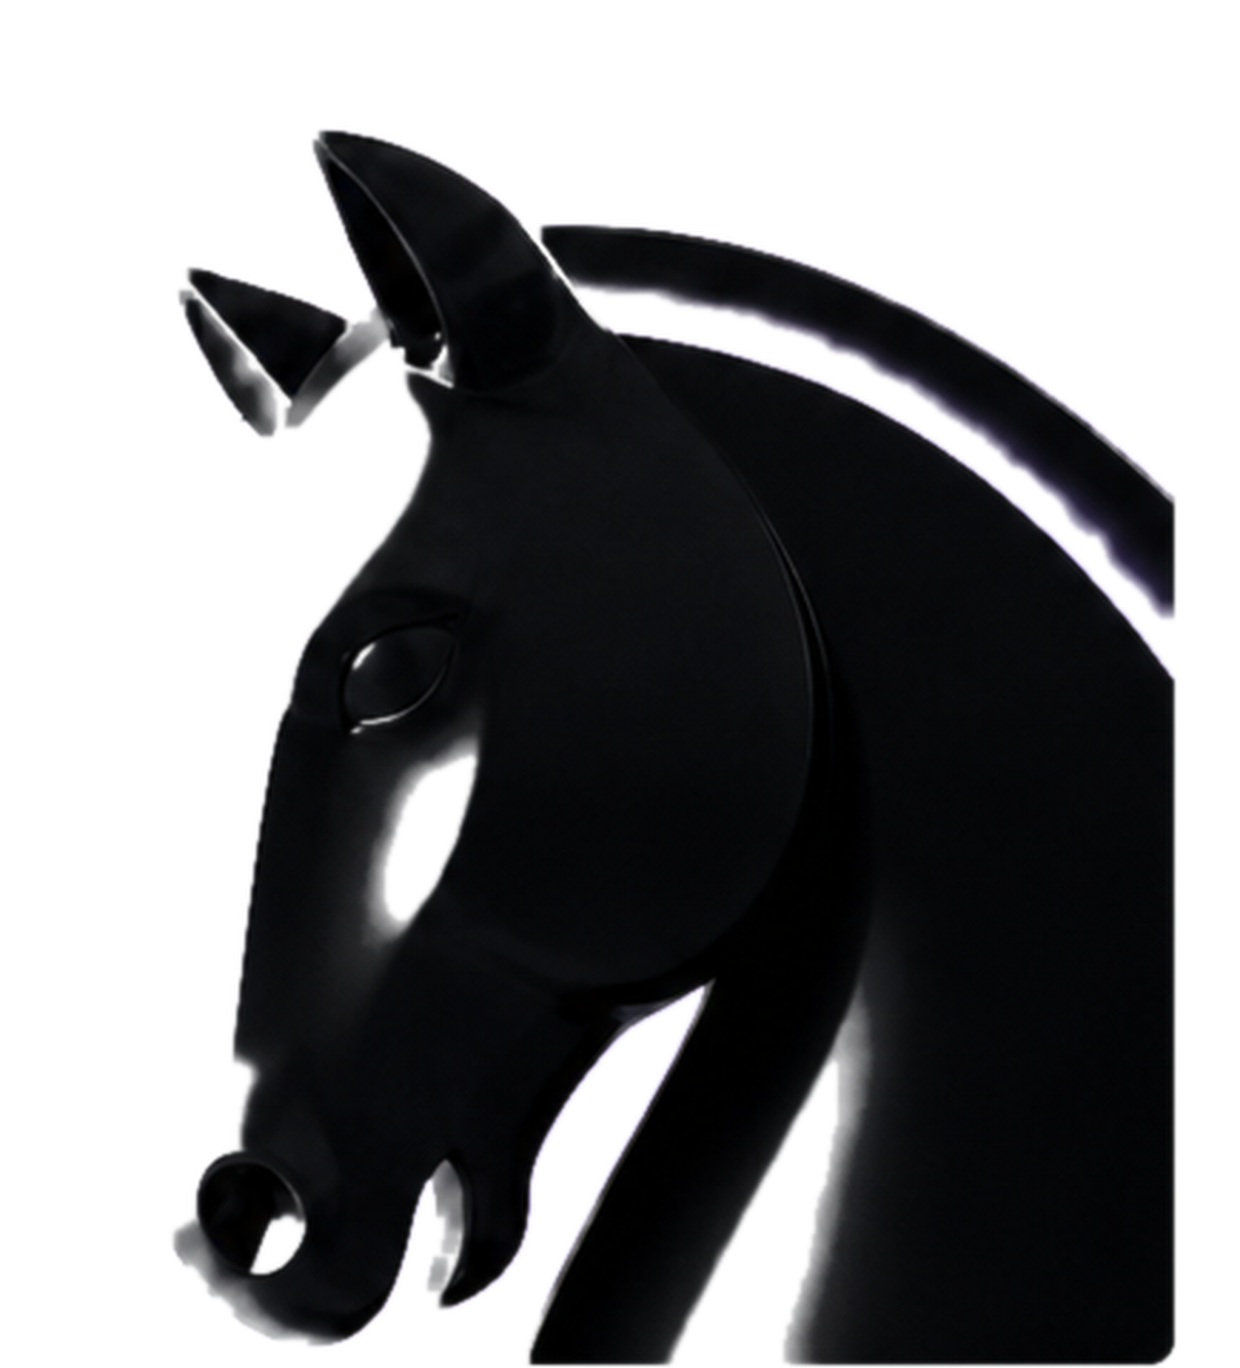
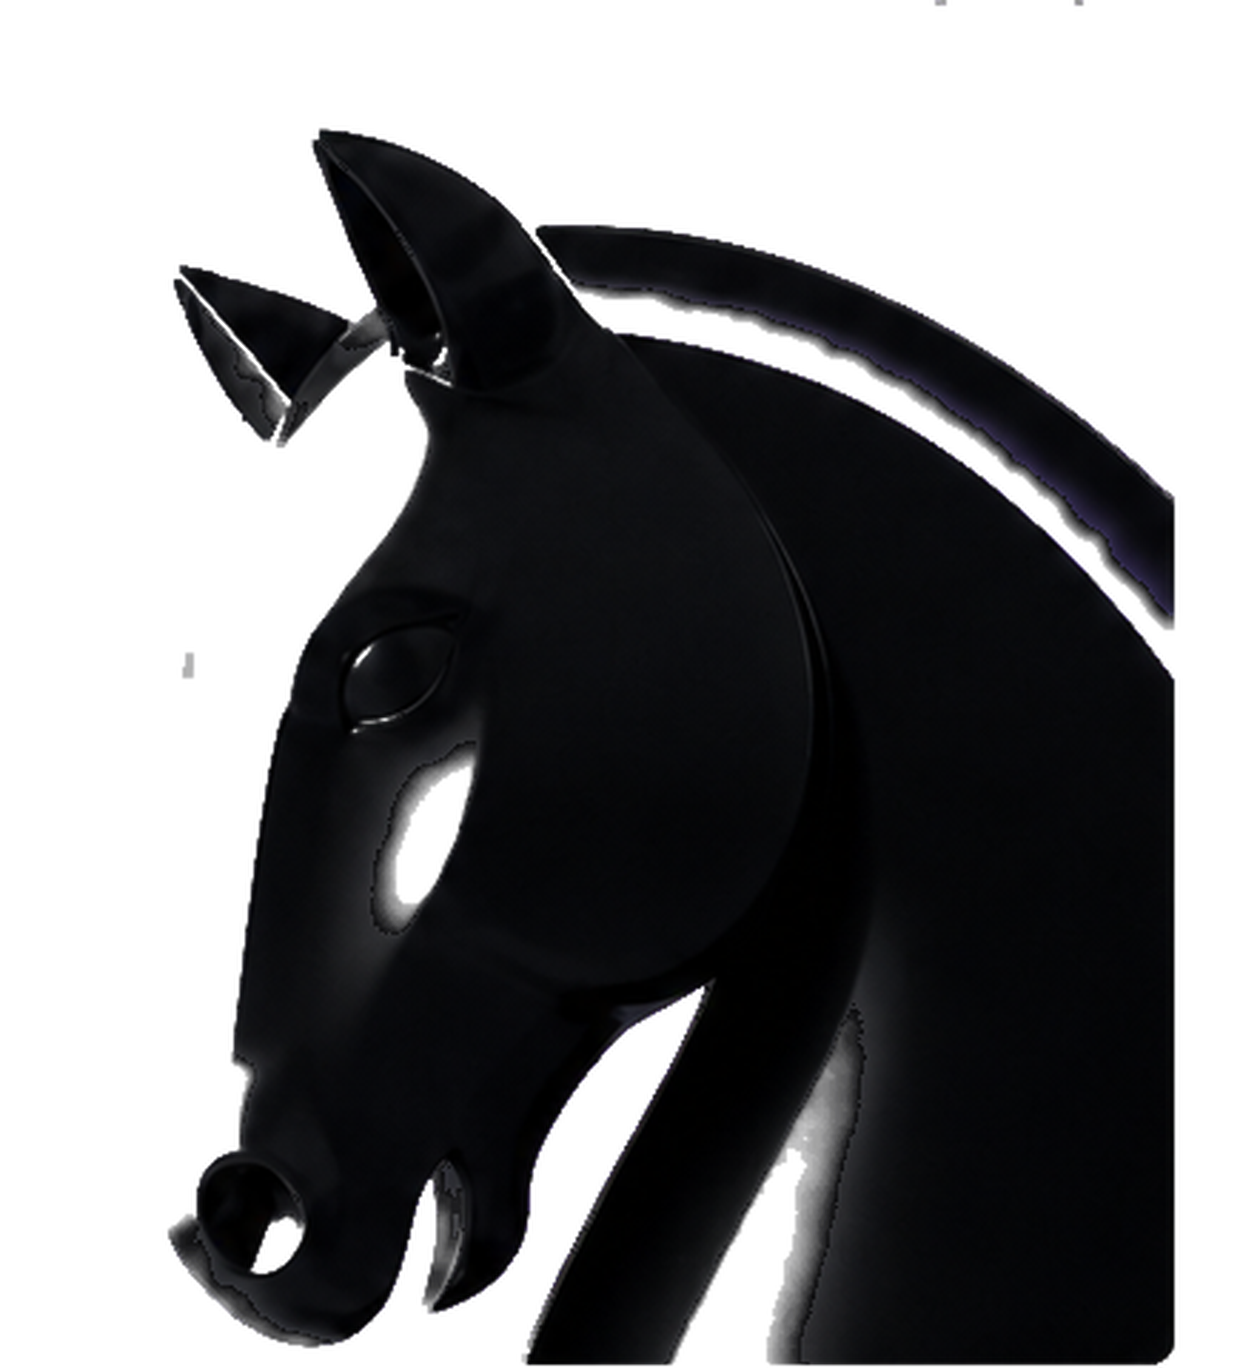
Knight: dark edges (no halo) + preserved highlights

diff --git a/index.html b/index.html
@@ -4,7 +4,7 @@
   <meta charset="utf-8" />
   <meta name="viewport" content="width=device-width, initial-scale=1" />
   <title>SNIR.</title>
-  <link rel="stylesheet" href="styles/hero.css?v=25" />
+  <link rel="stylesheet" href="styles/hero.css?v=26" />
 </head>
 <body>
 
@@ -15,7 +15,7 @@
     <circle cx="250" cy="250" r="248" fill="none" stroke="#0A0A0A" stroke-width="1.25"/>
     <circle cx="250" cy="250" r="184" fill="none" stroke="#6E3CFF"  stroke-width="1"/>
   </svg>
-  <img class="hero__knight" src="assets/hero/chess-knight.png?v=14" alt="" aria-hidden="true"/>
+  <img class="hero__knight" src="assets/hero/chess-knight.png?v=26" alt="" aria-hidden="true"/>
 
   <div class="hero__topbar">
     <a class="hero__logo" href="/">SNIR<span class="dot"></span></a>
